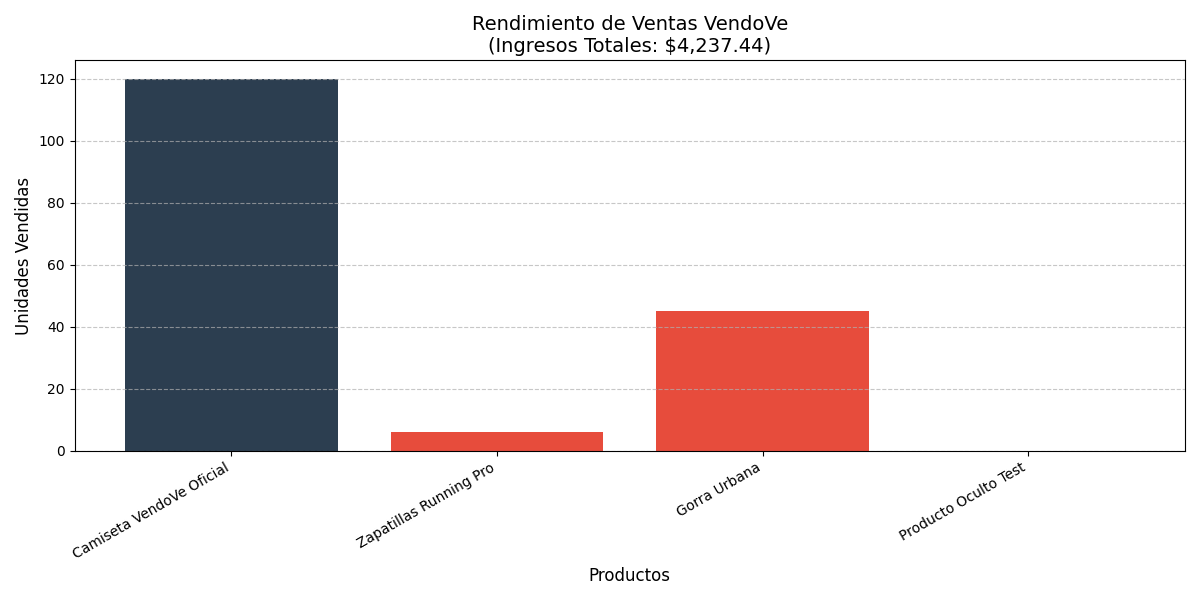
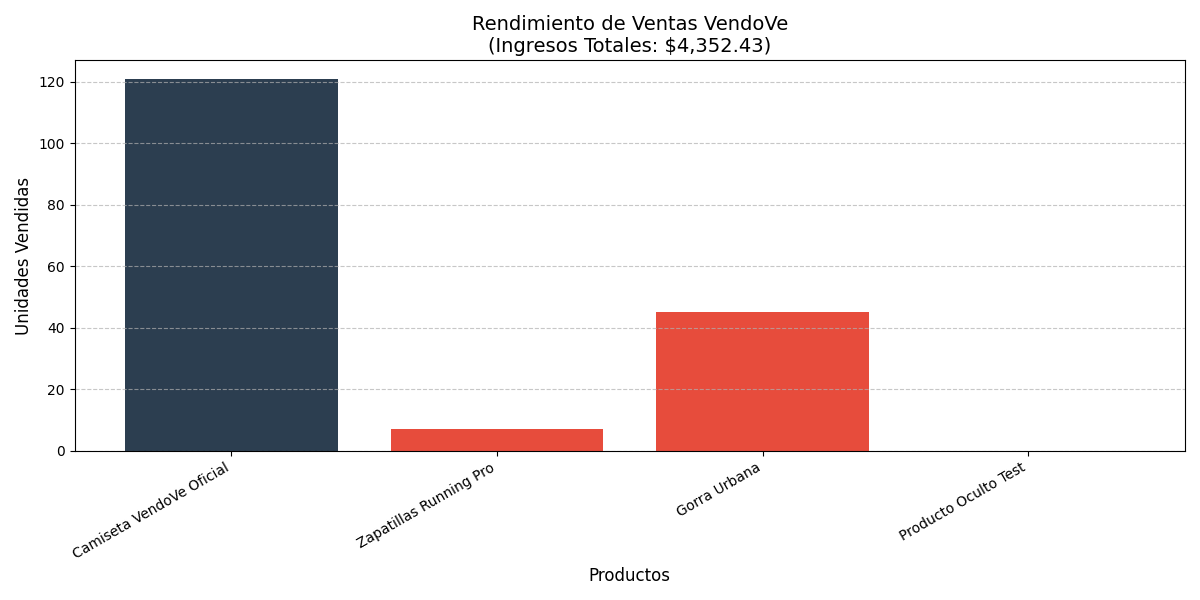
ajuste de agente de ventas

diff --git a/app.py b/app.py
@@ -2,70 +2,123 @@ import gradio as gr
 import os
 import sqlite3
 import pandas as pd
+import threading
+import time
 from dotenv import load_dotenv
 from database.db_manager import inicializar_db_vendove
-from agents.crew_logic import ejecutar_crew
+from agents.crew_logic import ejecutar_crew, generar_reportes_automatico
 
-# 1. Configuración de inicio
+# Configuración de inicio
 load_dotenv()
 inicializar_db_vendove()
 os.environ["CREWAI_TELEMETRY_OPTOUT"] = "true"
 
+CHART_PATH = "data/chart_sales.png"
+EXCEL_PATH = "data/reporte_gerencial_vendove.xlsx"
+DB_PATH = "data/vendove_store.db"
+
 # --- LÓGICA DE DATOS ---
 
 def responder(mensaje, historial):
-    """
-    Formato exigido por el error: 
-    [{'role': 'user', 'content': '...'}, {'role': 'assistant', 'content': '...'}]
-    """
+    """Responde en el chat solo con el agente de ventas (Asistente Virtual)."""
     if historial is None:
         historial = []
-        
-    # Llamamos a CrewAI
+
     respuesta_ia = ejecutar_crew(mensaje)
-    
-    # AGREGAMOS COMO DICCIONARIOS (Lo que el error pidió)
+
     historial.append({"role": "user", "content": mensaje})
     historial.append({"role": "assistant", "content": respuesta_ia})
-    
+
     return "", historial
 
+
 def actualizar_panel():
+    """
+    Regenera reportes (Excel + gráfica) y devuelve datos para la pestaña Analytics.
+    Se usa al cargar la app y al pulsar Refrescar.
+    """
     try:
-        conn = sqlite3.connect("data/vendove_store.db")
-        df = pd.read_sql_query("SELECT name_product, price_product, sales_product, stock_product FROM products", conn)
+        generar_reportes_automatico()
+        if not os.path.exists(DB_PATH):
+            return None, None, None
+        conn = sqlite3.connect(DB_PATH)
+        df = pd.read_sql_query(
+            "SELECT name_product, price_product, sales_product, stock_product FROM products",
+            conn,
+        )
         conn.close()
-        df['Alerta'] = df['stock_product'].apply(lambda x: "⚠ BAJO" if x < 10 else "✅ OK")
-        return df, "data/reporte_gerencial_vendove.xlsx"
+        df["Alerta"] = df["stock_product"].apply(
+            lambda x: "⚠ BAJO" if x < 10 else "✅ OK"
+        )
+        excel_path = EXCEL_PATH if os.path.exists(EXCEL_PATH) else None
+        chart_path = CHART_PATH if os.path.exists(CHART_PATH) else None
+        return df, excel_path, chart_path
     except Exception as e:
-        return None, None
+        return None, None, None
+
+
+def _generar_reportes_en_segundo_plano(intervalo_minutos=5):
+    """Hilo en segundo plano: regenera reportes cada N minutos sin tocar el chat."""
+    while True:
+        time.sleep(intervalo_minutos * 60)
+        try:
+            generar_reportes_automatico()
+        except Exception:
+            pass
+
 
 # --- INTERFAZ ---
 
 with gr.Blocks(title="VendoVe ERP") as demo:
     gr.Markdown("# 🏢 VendoVe ERP - Panel de Control")
-    
+
     with gr.Tabs():
         with gr.TabItem("💬 Asistente Virtual"):
-            # Sin 'type' para evitar el TypeError del inicio
             chatbot = gr.Chatbot(label="Asistente de Ventas", height=500)
             with gr.Row():
-                txt_input = gr.Textbox(placeholder="Pregunta algo...", show_label=False, scale=4)
+                txt_input = gr.Textbox(
+                    placeholder="Pregunta por productos o realiza una venta...",
+                    show_label=False,
+                    scale=4,
+                )
                 btn_enviar = gr.Button("Enviar 🚀", variant="primary", scale=1)
 
         with gr.TabItem("📊 Analytics"):
+            gr.Markdown("Análisis de ventas (reportes generados automáticamente)")
             with gr.Row():
                 with gr.Column():
-                    tabla_datos = gr.Dataframe(interactive=False)
-                    btn_refrescar = gr.Button("🔄 Refrescar Datos")
+                    tabla_datos = gr.Dataframe(interactive=False, label="Datos de productos")
+                    imagen_grafica = gr.Image(
+                        value=CHART_PATH if os.path.exists(CHART_PATH) else None,
+                        label="Gráfica de ventas",
+                        type="filepath",
+                    )
                 with gr.Column():
-                    gr.File(label="Excel", value="data/reporte_gerencial_vendove.xlsx")
+                    archivo_excel = gr.File(label="Reporte Excel", value=EXCEL_PATH if os.path.exists(EXCEL_PATH) else None)
+                    btn_refrescar = gr.Button("🔄 Refrescar análisis")
+
+    # Al cargar la app: generar reportes y rellenar Analytics
+    def al_cargar():
+        return actualizar_panel()
+
+    demo.load(al_cargar, None, [tabla_datos, archivo_excel, imagen_grafica])
 
     # Eventos
     txt_input.submit(responder, [txt_input, chatbot], [txt_input, chatbot])
     btn_enviar.click(responder, [txt_input, chatbot], [txt_input, chatbot])
-    btn_refrescar.click(actualizar_panel, None, [tabla_datos, gr.File()])
+    btn_refrescar.click(
+        actualizar_panel,
+        None,
+        [tabla_datos, archivo_excel, imagen_grafica],
+    )
 
 if __name__ == "__main__":
-    # El theme se define aquí para cumplir con Gradio 6
+    # Reportes automáticos en segundo plano cada 5 minutos
+    hilo_reportes = threading.Thread(
+        target=_generar_reportes_en_segundo_plano,
+        kwargs={"intervalo_minutos": 5},
+        daemon=True,
+    )
+    hilo_reportes.start()
+
     demo.launch(theme=gr.themes.Soft())

diff --git a/agents/crew_logic.py b/agents/crew_logic.py
@@ -1,14 +1,18 @@
+"""
+Lógica de agentes CrewAI para VendoVe.
+- Asistente Virtual (chat): solo agente de ventas.
+- Reportes/analytics: se generan de forma automática en app.py, no desde el chat.
+"""
 from crewai import Agent, Task, Crew, Process
 from tools.sales_tools import ConsultarCatalogoTool, RegistrarVentaTool
-# Importamos solo la herramienta robusta que creamos
 from tools.analytics_tools import AnalyticsTool
 
-# 1. Instanciamos las herramientas
+# Herramientas
 tool_catalogo = ConsultarCatalogoTool()
 tool_venta = RegistrarVentaTool()
-tool_analytics = AnalyticsTool()  # Esta herramienta ya hace gráficas y Excel
+tool_analytics = AnalyticsTool()
 
-# 2. Definir Agentes
+# Agente de ventas: solo este atiende el chat (Asistente Virtual)
 agente_ventas = Agent(
     role='Vendedor VendoVe',
     goal='Ayudar a los clientes, consultar el catálogo y cerrar ventas.',
@@ -18,46 +22,38 @@ agente_ventas = Agent(
     allow_delegation=False
 )
 
-agente_analista = Agent(
-    role='Analista de Datos y Negocios',
-    goal='Generar reportes visuales y archivos Excel de las ventas realizadas.',
-    backstory='Experto en Business Intelligence. Te encargas de transformar datos brutos en informes ejecutivos profesionales.',
-    tools=[tool_analytics], # Ahora usa la herramienta robusta
-    verbose=True,
-    allow_delegation=False
-)
 
 def ejecutar_crew(mensaje_usuario):
-    # Tarea para el vendedor
+    """
+    Ejecuta solo el agente de ventas para el chat.
+    La respuesta que ve el usuario es siempre la del vendedor (no la del analista).
+    Los reportes se generan de forma automática en la pestaña Analytics.
+    """
     tarea_venta = Task(
         description=(
             f"Procesa la solicitud del usuario: '{mensaje_usuario}'. "
             "Si el usuario pregunta por productos, consulta el catálogo. "
             "Si el usuario quiere comprar, usa el ID del producto para registrar la venta. "
-            "Si el usuario pide un informe, reporte o gráfica, delega la interpretación al Analista."
+            "Responde de forma amable y clara. No generes reportes ni gráficas; eso se hace en otro panel."
         ),
         expected_output="Una respuesta amable y clara para el cliente con los resultados de la operación.",
         agent=agente_ventas
     )
 
-    # Tarea para el analista (se activa si se pide un reporte)
-    tarea_analisis = Task(
-        description=(
-            "Si la solicitud del usuario requiere un informe, gráfica o análisis, "
-            "utiliza la herramienta de analítica para generar el PNG y el Excel."
-        ),
-        expected_output="Confirmación de que los reportes gráficos y Excel han sido generados exitosamente.",
-        agent=agente_analista,
-        context=[tarea_venta] # El analista sabe qué pasó en la venta
-    )
-    
-    # Configuramos el Crew
     crew = Crew(
-        agents=[agente_ventas, agente_analista],
-        tasks=[tarea_venta, tarea_analisis],
-        process=Process.sequential # Se ejecutan en orden
+        agents=[agente_ventas],
+        tasks=[tarea_venta],
+        process=Process.sequential,
     )
-    
-    # kickoff devuelve un objeto CrewOutput, lo convertimos a string
+
     resultado = crew.kickoff()
-    return str(resultado)
+    # Con un solo agente, raw es la respuesta del vendedor
+    return resultado.raw if hasattr(resultado, 'raw') and resultado.raw else str(resultado)
+
+
+def generar_reportes_automatico():
+    """
+    Genera Excel y gráfica de ventas sin usar el chat.
+    Se llama al cargar la app y/o periódicamente desde la pestaña Analytics.
+    """
+    return tool_analytics._run("")

diff --git a/tools/sales_tools.py b/tools/sales_tools.py
@@ -12,7 +12,7 @@ class ConsultarCatalogoTool(BaseTool):
     def _run(self, query: str = "") -> str:
         conn = sqlite3.connect(DB_PATH)
         cursor = conn.cursor()
-        sql = "SELECT id_product, name_product, price_product, stock_product FROM products WHERE state_product != 'hide' AND stock_product > 0"
+        sql = "SELECT id_product, name_product, price_product, stock_product FROM products WHERE state_product = 'show' AND stock_product > 0"
         cursor.execute(sql)
         items = cursor.fetchall()
         conn.close()
